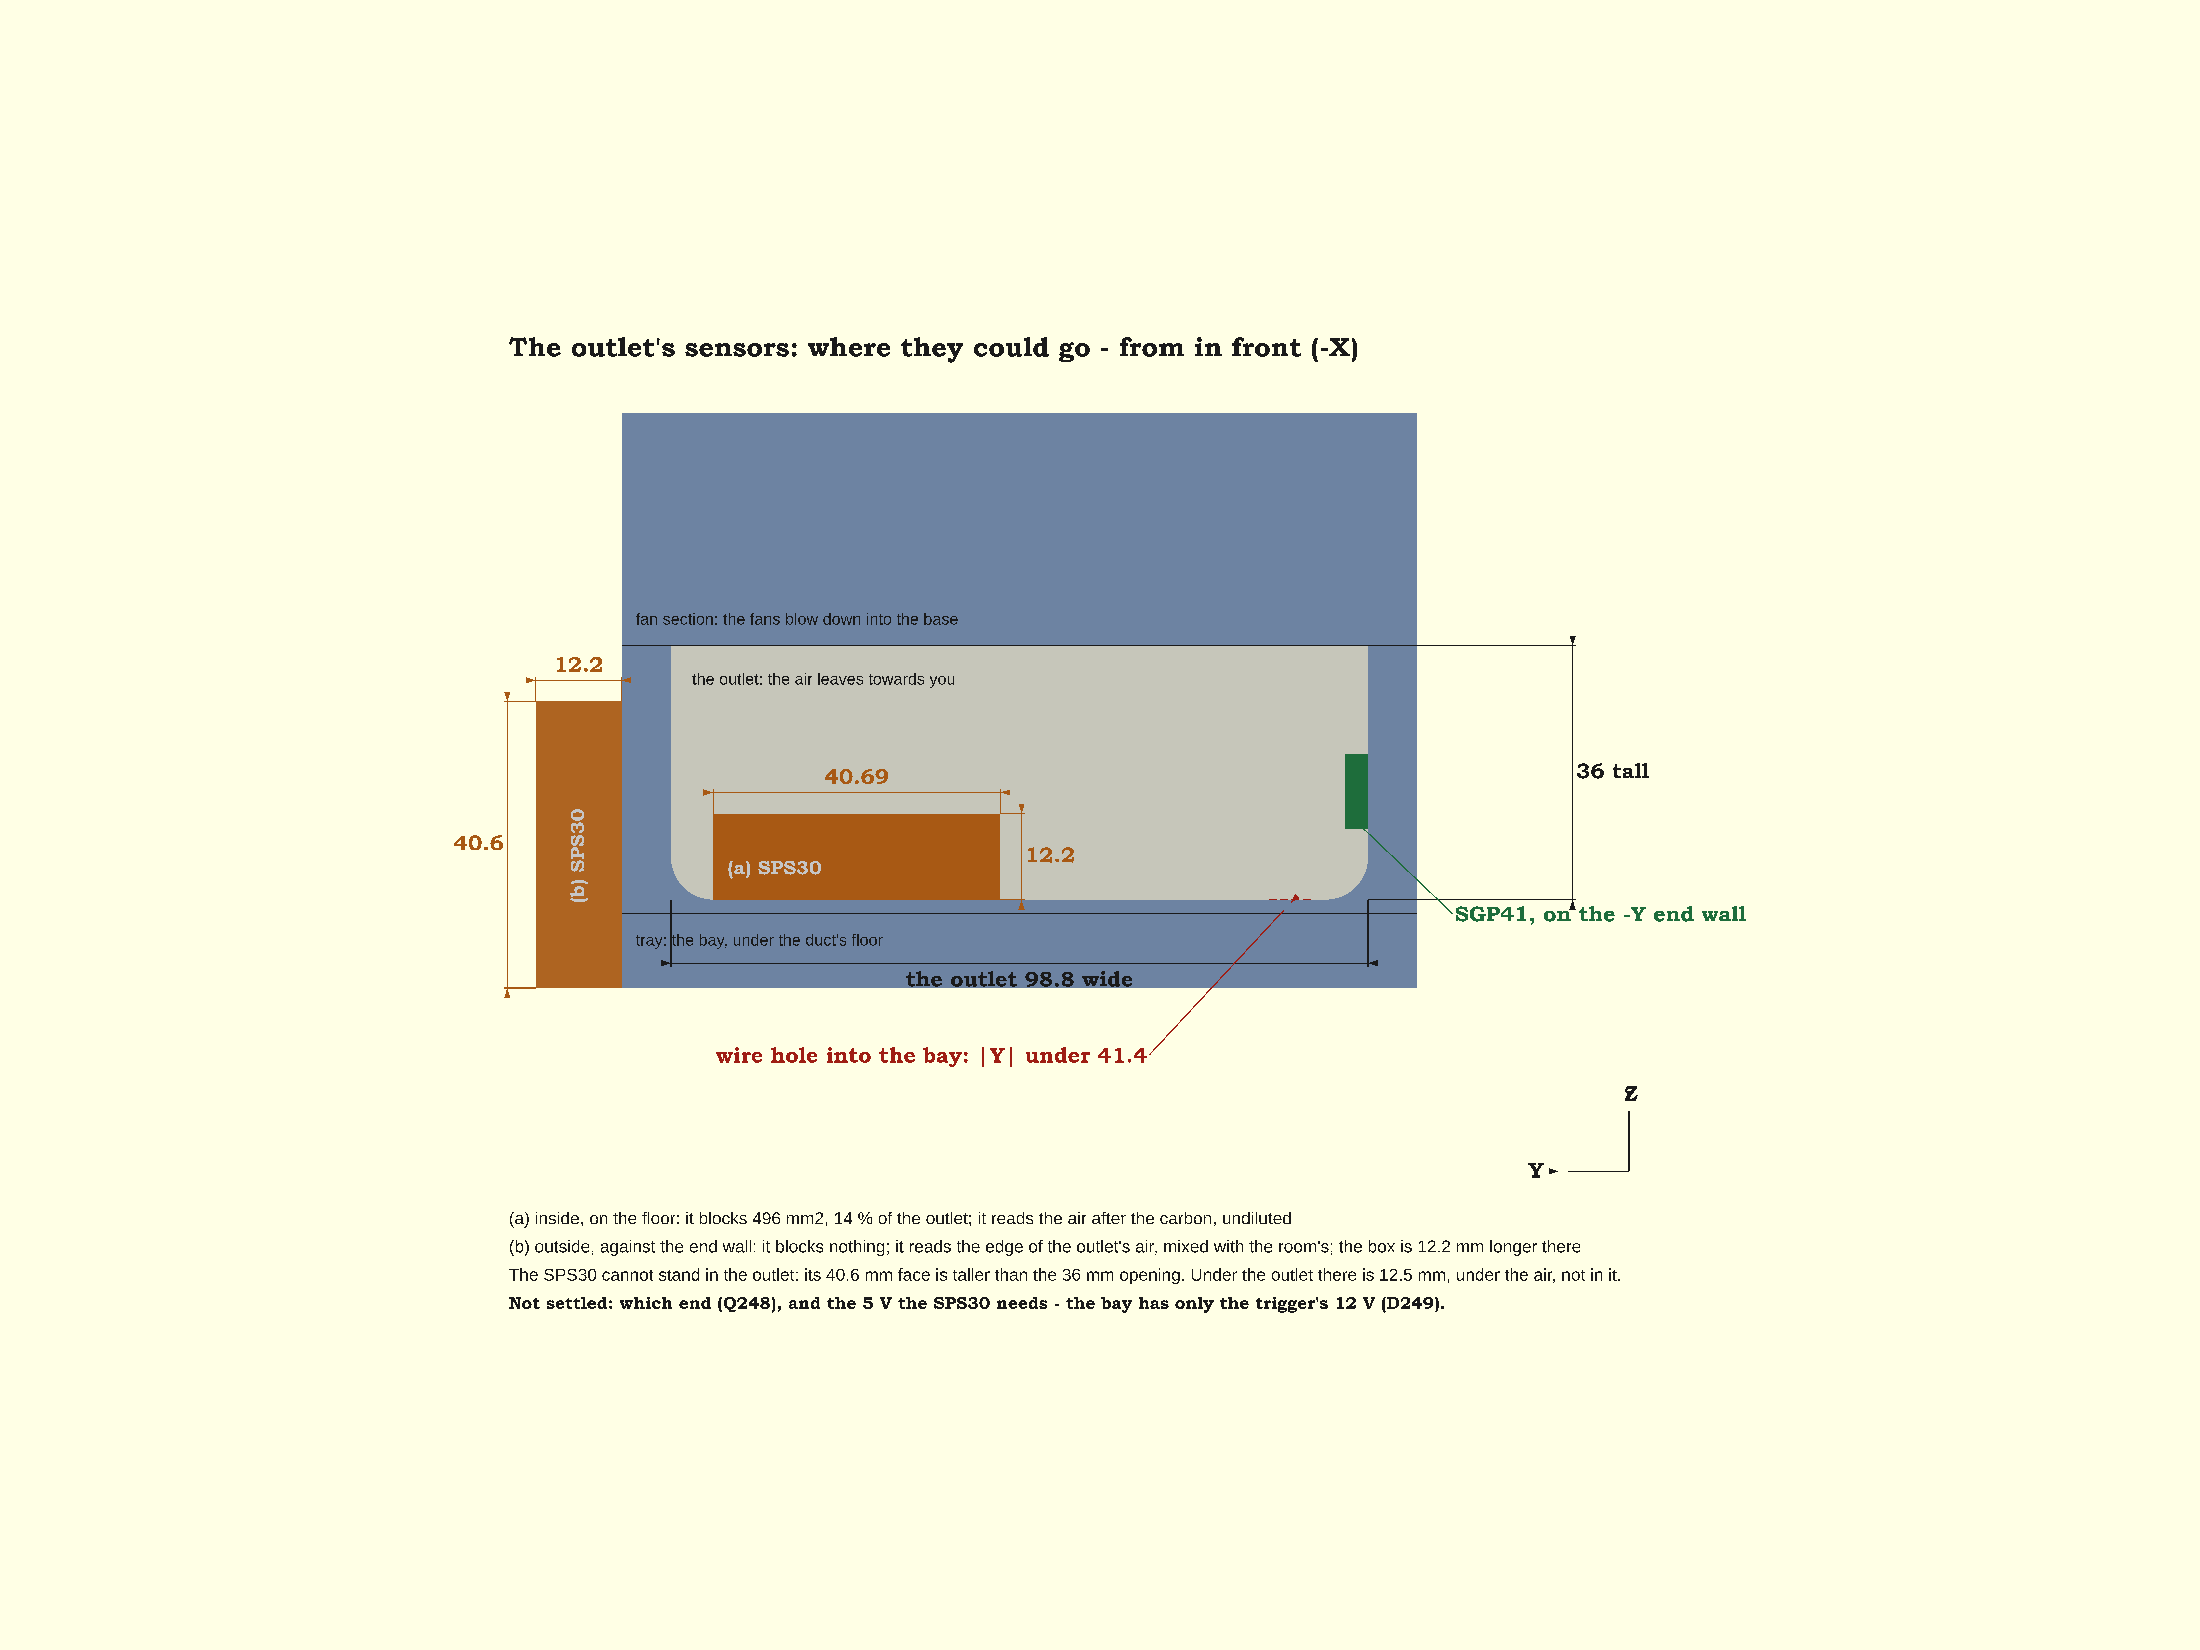
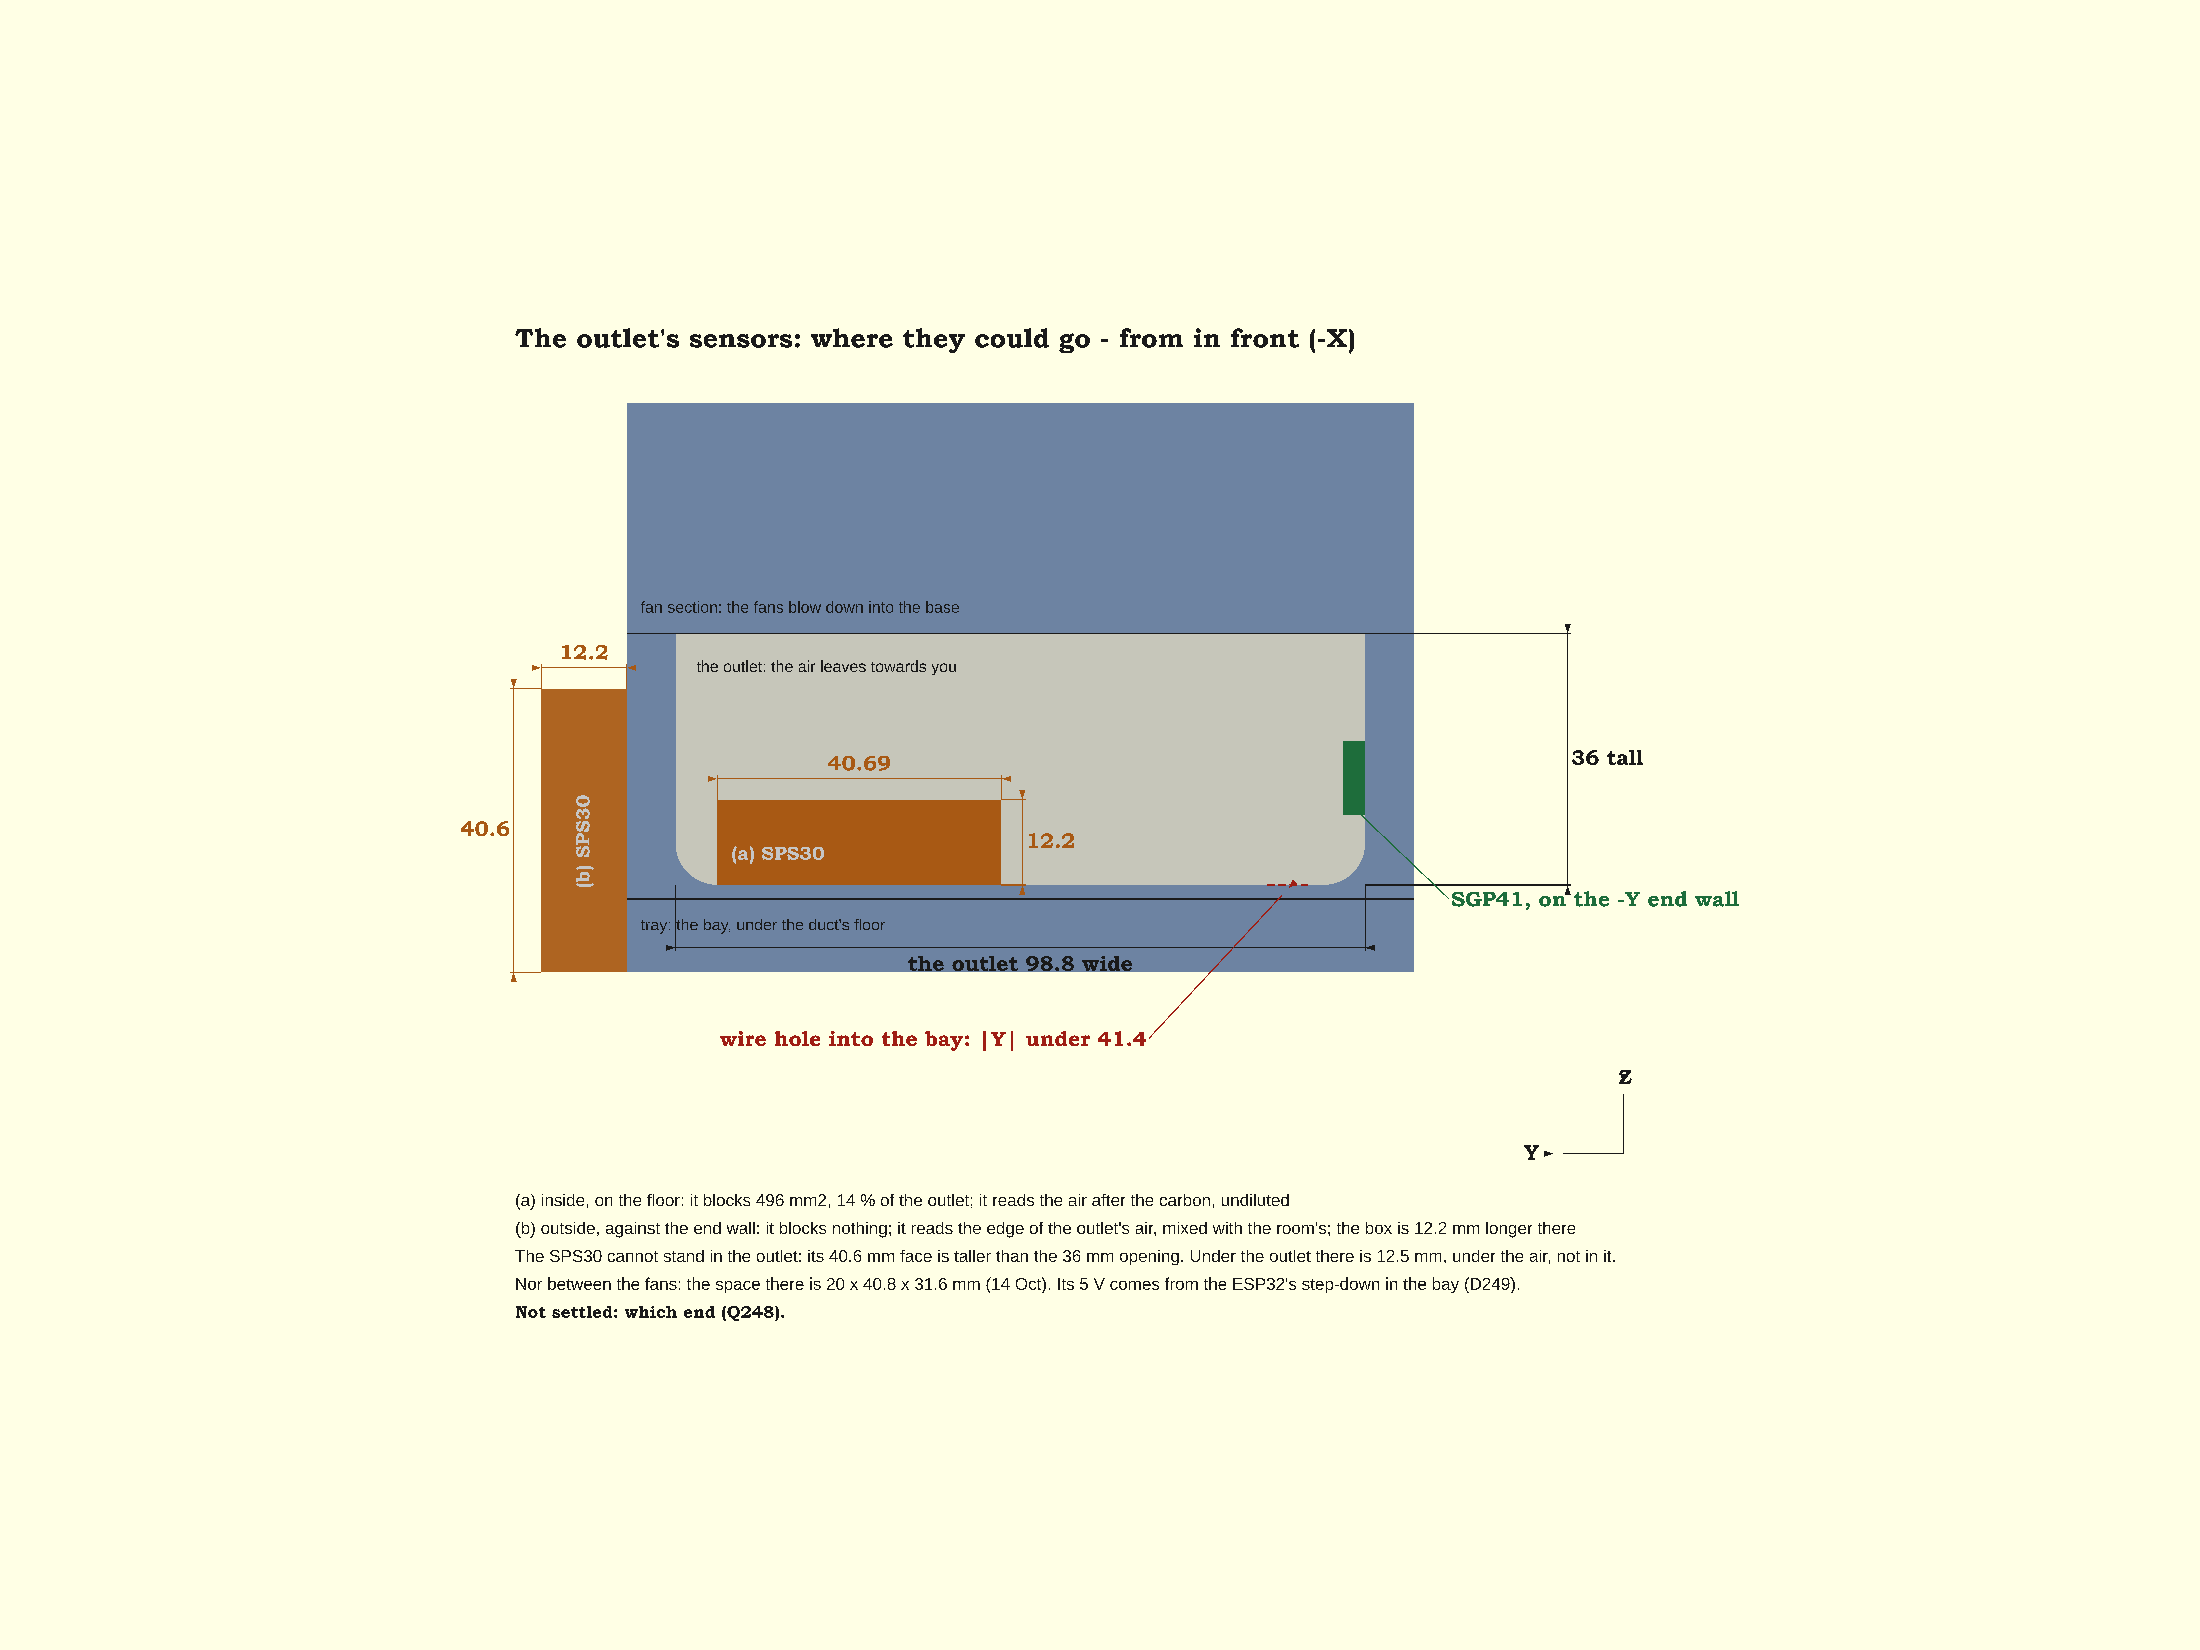
docs(bentobox): the SPS30 on the ESP32's 5 V; not between the fans

diff --git a/scripts/figures/bentobox-circuit.py b/scripts/figures/bentobox-circuit.py
@@ -106,10 +106,20 @@ with schemdraw.Drawing(show=False) as d:
         d += elm.Tag().right().label(f"TACH {n}", fontsize=9)
     run = 5.4
     d += elm.Line().at(mini.sda).right(run)
-    sens = box("outlet sensor(s), D112:\nSGP41 (3V3), maybe\nSPS30 (5 V)", (5.2, 2.6), [
-        pin("SDA", "left", "2/2", "sda"), pin("SCL", "left", "1/2", "scl")], fontsize=9)
+    # the outlet's sensors (D112): the SPS30 on the step-down's 5 V, beside the SuperMini (D249), its SEL to ground
+    # for I2C; the SGP41 on 3V3, never 5 V (the air-quality monitor's wiring)
+    sens = box("the outlet's\nsensors, D112", (8.4, 3.0), [
+        pin("SDA", "left", "2/2", "sda"), pin("SCL", "left", "1/2", "scl"),
+        pin("SPS30 VDD", "right", "3/3", "v5"), pin("SGP41 VIN", "right", "2/3", "v33"),
+        pin("GND, SEL", "right", "1/3", "g")], fontsize=9)
     d += sens.anchor("sda").at((mini.sda[0] + run, mini.sda[1]))
     d += elm.Wire("-|").at(mini.scl).to(sens.scl)
+    d += elm.Line().at(sens.v5).right(0.6)
+    d += elm.Vdd().theta(0).label("+5 V")
+    d += elm.Line().at(sens.v33).right(1.8)
+    d += elm.Vdd().theta(0).label("3V3")
+    d += elm.Line().at(sens.g).right(1.0)
+    d += elm.Ground().theta(0)
     d += elm.Line().at(mini.led).right(0.6)
     d += elm.Label().label("the onboard LED, active-low", loc="right", fontsize=8)
 

diff --git a/docs/bentobox-scrubber.md b/docs/bentobox-scrubber.md
@@ -159,6 +159,14 @@ controller in the bay. Neither is used here. This build's sensors (the same as t
 **in the base's outlet**, where they read the air after the carbon; the chamber's own monitor reads the air
 before it. Their mount is not drawn yet.
 
+The SPS30 cannot go between the fans instead (Alon asked, 14 Oct 2026). Cut from the fan section's mesh, the
+space there is 20 mm along the box, between the two fans, 40.8 mm across, wall to wall, and 31.6 mm from the
+floor to the fan section's top. The SPS30 is 40.69 × 40.6 × 12.2: standing on its edge in the gap, one of its
+long sides goes across, leaving 0.2 mm of the 40.8, and the other stands 40.7 tall, 9 mm more than there is;
+the wires' grommet stands in the gap too. Above the fans there is 11.6 mm under the carbon housing, against its 12.2 mm, and it would sit over the
+fans' intakes. The SGP41, 13.1 × 10.6 × 3.2, would fit there, but its four leads would need room in the grommet,
+which takes the fans' four.
+
 ![The bottom pulled apart, from the outlet's side: the fan section, the screws, the base with a nut's pocket under each post, the tray under it, and its four screws](diagrams/bentobox/auto-bottom.png)
 
 **Nuts, not heat-set inserts.** The fans' nuts are pull nuts; the tray's lie flat in slots that open one way.
@@ -196,13 +204,16 @@ across and 83 long.
   bottom face, so a plug's moulding clears whatever the box stands on.
 - **In the bay**, not drawn yet: the step-down (an MP1584EN, 5 V out), an ESP32-C3 SuperMini, and an IRLZ44N
   that switches both fans from the ESP32 (Alon, 9 Oct 2026), a diode across them; the fans' tach wires go to
-  two of the ESP32's pins. Lying flat, they fit the 8 mm. Before wiring, check that the charger offers 12 V:
+  two of the ESP32's pins. Lying flat, they fit the 8 mm. The outlet's SPS30 takes its 5 V from the same
+  step-down, beside the ESP32 (Alon, 14 Oct 2026: D249): it draws 45 to 65 mA, 80 mA for the first 200 ms as
+  its fan starts, against the MP1584EN's 3 A. Its SEL pin goes to ground, for I2C. The SGP41 goes on the
+  ESP32's 3V3, never 5 V, as in the air-quality monitor. Before wiring, check that the charger offers 12 V:
   many offer 5, 9, 15 and 20 V only. The SuperMini's firmware is
   [`firmware/bentobox.yaml`](../firmware/bentobox.yaml), with the pin for each wire in its header: flashed
   9 Oct 2026 and updated over the air since, it reports to Home Assistant over MQTT, and the fans are on unless
   switched off there.
 
-  ![The bay's circuit: the USB-C trigger's 12 V, the step-down's 5 V, both fans in parallel on the IRLZ44N with a flyback Schottky across them, the gate from GPIO10 through 100 ohm with 10 kohm to ground, each fan's tach to its own pin through a Schottky, the outlet's sensors on I2C](diagrams/bentobox/circuit.png)
+  ![The bay's circuit: the USB-C trigger's 12 V, the step-down's 5 V, both fans in parallel on the IRLZ44N with a flyback Schottky across them, the gate from GPIO10 through 100 ohm with 10 kohm to ground, each fan's tach to its own pin through a Schottky, the outlet's sensors on I2C, the SPS30 on the step-down's 5 V and the SGP41 on 3V3](diagrams/bentobox/circuit.png)
 
   The circuit, drawn by [`scripts/figures/bentobox-circuit.py`](../scripts/figures/bentobox-circuit.py) (`uv run
   scripts/figures/bentobox-circuit.py`) - its pins are the firmware's, so a change goes into both. The fans share the
